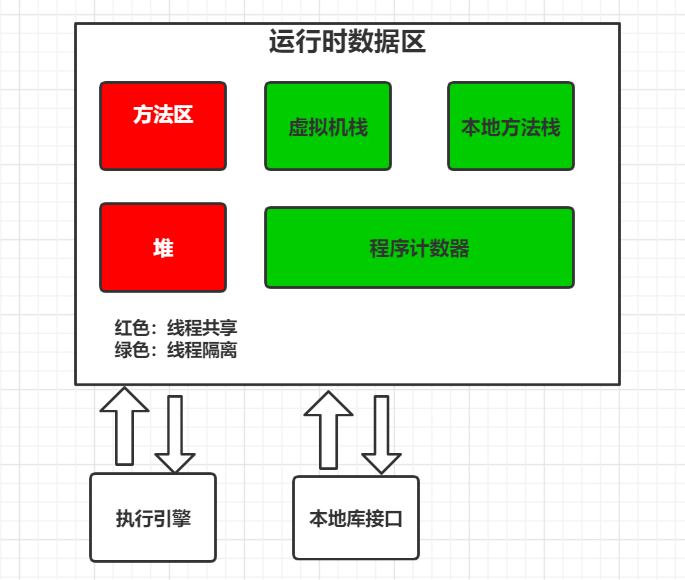
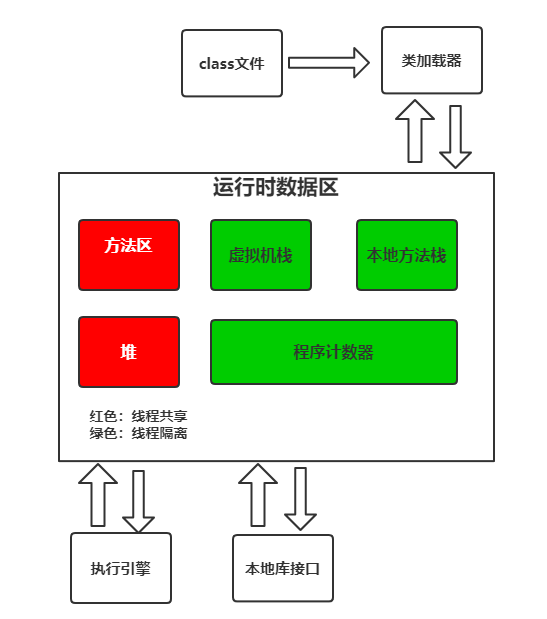
add

Changed region(s): [[0.0932, 0.031, 0.9324, 0.9931]]

diff --git a/docs/java/JVM/JVM之垃圾回收.md b/docs/java/JVM/JVM之垃圾回收.md
@@ -1,21 +1,58 @@
-# JVM之垃圾回收算法
+# JVM之垃圾回收
 
-#### 标记-清除算法
+## 一、对象的生与死
+
+#### 1、引用计数算法
+给对象添加一个引用计数器，每当有一个地方引用它时，计数器加1，引用失效减1。主要问题很难解决循环引用的问题。
+
+#### 2、跟搜索算法
+通过一些GCRoots对象来作为节点，搜索所有走过的路径称为引用链，当一个对象到GCRoots没有任何引用链（在图论中即为从GCRoots到这个对象不可达），则对象时不可用的。可作为GCRoots的对象：
+* 虚拟机栈中的栈帧中的本地变量表中的引用对象
+* 方法区中的静态属性引用的对象
+* 方法区中的常量引用对象
+* 本地方法栈中的native方法的引用的对象
+
+
+## 二、对象访问
+
+#### 1、直接引用(强应用)
+```
+Object obj=new Object();
+```
+* object obj 在栈的本地变量中是作为一个reference类型数据出现。reference类型在虚拟机中的主流做法，是使用句柄和直接指针。
+* new Object()在堆上开辟一块内存，存储object类型所有的实例数据值。
+* 只要强引用还存在，垃圾回收永远不会回收被引用的对象内存
+
+### 2、软引用（soft reference）
+* 描述的一些还有用，但是非必须的对象。在系统将要发生内存溢出 异常之前，将会把这些对象列为回收范围之中并进行第二次回收。
+
+### 3、弱引用（weak reference）
+* 也是来描述非必须的对象，但是它的强度比软引用更弱一些，当垃圾回收器工作时，无论当前内存是否足够，都会回收只被弱引用关联的对象
+* java中的ThreadLocal和WeakhashMap得到了应用
+### 4、 虚引用（phantom reference）
+* 最弱的一种引用关系，不能通过它访问对象。幻象引用仅仅是提供了一种确保对象被 finalize 以后，做某些事情的机制，比如，通常用来做所谓的 Post-Mortem 清理机制
+
+
+
+## 三、垃圾回收算法
+
+### 1、标记-清除算法
 标记-清除算法分为两个阶段：标记阶段和清除阶段。标记阶段的任务是标记出所有需要被回收的对象，清除阶段就是回收被标记的对象所占用的空间。
 * 缺点：但是有一个比较严重的问题就是容易产生内存碎片，碎片太多可能会导致后续过程中需要为大对象分配空间时无法找到足够的空间而提前触发新的一次垃圾收集动作。
 
-#### 复制算法
+#### 2、复制算法
 它将可用内存按容量划分为大小相等的两块，每次只使用其中的一块。当这一块的内存用完了，就将还存活着的对象复制到另外一块上面，然后再把已使用的内存空间一次清理掉，这样一来就不容易出现内存碎片的问题。
 * 对内存空间的使用做出了高昂的代价，因为能够使用的内存缩减到原来的一半。很显然，Copying算法的效率跟存活对象的数目多少有很大的关系，如果存活对象很多，那么Copying算法的效率将会大大降低。
 
-#### 标记-整理算法
+#### 3、标记-整理算法
 该算法标记阶段和标记清除算法一样，但是在完成标记之后，它不是直接清理可回收对象，而是将存活对象都向一端移动，然后清理掉端边界以外的内存。
 
 
-#### 分代收集算法
+#### 4、分代收集算法
 分代收集算法是目前大部分JVM的垃圾收集器采用的算法。它的核心思想是根据对象存活的生命周期将内存划分为若干个不同的区域。一般情况下将堆区划分为老年代（Tenured Generation）和新生代（Young）
 * 新生代：目前大部分垃圾收集器都采取复制算法。
 >因为新生代中每次垃圾回收都要回收大部分对象，也就是说需要复制的操作次数较少，但是实际中并不是按照1：1的比例来划分新生代的空间的，一般来说是将新生代划分为一块较大的Eden空间和两块较小的Survivor空间，每次使用Eden空间和其中的一块Survivor空间，当进行回收时，将Eden和Survivor中还存活的对象复制到另一块Survivor空间中，然后清理掉Eden和刚才使用过的Survivor空间。
 * 老年代：特点是每次回收都只回收少量对象，一般使用的是标记-整理算法
+
 
 

diff --git a/docs/java/JVM/JVM之内存模型.md b/docs/java/JVM/JVM之内存模型.md
@@ -1,60 +1,13 @@
 # JVM之内存模型
 
-## 一、运行时数据区
-java虚拟机在执行java程序的过程中，会把它管理的内存划分为若干个不同的数据区，这些区都有各自的用途。
-![](../../../pic/java/jvm_1.png)
+ 
+## 1、指令重排
 
+## 2、内存屏障
 
-#### 程序计数器
-当前线程所执行的字节码的行号指示器。由于Java虚拟机的多线程是通过线程的轮流切换并分配处理器执行时间来实现的，一个处理器在一个时刻只会执行一条线程指令，因此为了线程切换后你能恢复到正确的执行位置，每个线程需要独立的程序计数器。
+## 3、happens before
 
-#### 栈
-Java方法执行的内存模型，每个方法被执行的时候都会创建一个栈帧用于存储局部变量，操作栈，动态链接，方法入口等信息，每个方法被调用直至被执行完成的过程，就对应一个栈帧的入栈和出栈的过程。
-* 栈溢出异常(StackOverflowError):如果线程请求的栈深度大于栈所允许的深度，将抛出栈溢出异常。
-* 内存溢出(OutOfMemeryError)：当扩展是无法申请到足够多的内存时会抛出异常
-
-#### 本地方法栈
-给本地方法调用使用的栈内存
-
-#### 堆
-所有的对象实例及数组都要在堆上分配内存
-* 内存溢出（OutOfMemeryError）：堆中没有内存可以完成实例分配，并且堆也无法在扩展，将会抛出outOfMemoryerror
-
-
-#### 方法区
-
-存储已被虚拟机加载的类信息，常量，静态变量，即时编译器编译后的代码等数据
-* 运行时常量池：方法区的一部分
-
-## 二、对象的生与死
-
-#### 引用计数算法
-给对象添加一个引用计数器，每当有一个地方引用它时，计数器加1，引用失效减1。主要问题很难解决循环引用的问题。
-
-#### 跟搜索算法
-通过一些GCRoots对象来作为节点，搜索所有走过的路径称为引用链，当一个对象到GCRoots没有任何引用链（在图论中即为从GCRoots到这个对象不可达），则对象时不可用的。可作为GCRoots的对象：
-* 虚拟机栈中的栈帧中的本地变量表中的引用对象
-* 方法区中的静态属性引用的对象
-* 方法区中的常量引用对象
-* 本地方法栈中的native方法的引用的对象
-
-## 三、对象访问
-
-#### 直接引用(强应用)
-```
-Object obj=new Object();
-```
-* object obj 在栈的本地变量中是作为一个reference类型数据出现。reference类型在虚拟机中的主流做法，是使用句柄和直接指针。
-* new Object()在堆上开辟一块内存，存储object类型所有的实例数据值。
-* 只要强引用还存在，垃圾回收永远不会回收被引用的对象内存
-
-### 软引用（soft reference）
-* 描述的一些还有用，但是非必须的对象。在系统将要发生内存溢出 异常之前，将会把这些对象列为回收范围之中并进行第二次回收。
-
-### 弱引用（weak reference）
-* 也是来描述非必须的对象，但是它的强度比软引用更弱一些，当垃圾回收器工作时，无论当前内存是否足够，都会回收只被弱引用关联的对象
-* java中的ThreadLocal和WeakhashMap得到了应用
-### 虚引用（phantom reference）
-* 最弱的一种引用关系，不能通过它访问对象。幻象引用仅仅是提供了一种确保对象被 finalize 以后，做某些事情的机制，比如，通常用来做所谓的 Post-Mortem 清理机制
+## 4、volatile
+ 
  
  

diff --git a/docs/java/JVM/JVM之内存结构.md b/docs/java/JVM/JVM之内存结构.md
@@ -1,0 +1,29 @@
+# JVM之内存模型
+
+## 一、运行时数据区
+java虚拟机在执行java程序的过程中，会把它管理的内存划分为若干个不同的数据区，这些区都有各自的用途。
+![](../../../pic/java/jvm_1.png)
+
+### 1. 线程隔离(每个线程会有一个私有的栈)
+
+1. 虚拟机栈
+    >Java方法执行的内存模型，每个方法被执行的时候都会创建一个栈帧用于存储局部变量，操作栈，动态链接，方法入口等信息，每个方法被调用直至被执行完成的过程，就对应一个栈帧的入栈和出栈的过程。
+    * 栈溢出异常(StackOverflowError):如果线程请求的栈深度大于栈所允许的深度，将抛出栈溢出异常。
+    * 内存溢出(OutOfMemeryError)：当扩展是无法申请到足够多的内存时会抛出异常
+2. 本地方法栈
+    >给本地方法调用使用的栈内存
+3. 程序计数器
+    >当前线程所执行的字节码的行号指示器。由于Java虚拟机的多线程是通过线程的轮流切换并分配处理器执行时间来实现的，一个处理器在一个时刻只会执行一条线程指令，因此为了线程切换后你能恢复到正确的执行位置，每个线程需要独立的程序计数器。
+
+
+### 2. 线程共享
+1. 堆
+    >所有的对象实例及数组都要在堆上分配内存
+    * 内存溢出（OutOfMemeryError）：堆中没有内存可以完成实例分配，并且堆也无法在扩展，将会抛出outOfMemoryerror
+2. 方法区
+    >存储已被虚拟机加载的类信息，常量，静态变量，即时编译器编译后的代码等数据
+    * 运行时常量池：方法区的一部分
+
+ 
+ 
+ 

diff --git a/docs/java/基础/反射.md b/docs/java/基础/反射.md
@@ -1,9 +1,10 @@
 # 反射
 
 1. [什么是反射](#1)
-2. [反射相关API](#2)
-3. [代码示例](#3)
-4. [应用场景及优缺点](#4)
+2. [Class类-反射的基础]](#2)
+3. [反射相关API](#3)
+4. [代码示例](#4)
+5. [应用场景及优缺点](#5)
 
 
 
@@ -12,7 +13,14 @@
 
 JAVA 反射机制是在运行状态中，对于任意一个类，都能够知道这个类的所有属性和方法；对于任意一个对象，都能够调用它的任意一个方法和属性；这种动态获取的信息以及动态调用对象的方法的功能称为 java 语言的反射机制。
 
-## 二、<span id="2">反射相关API</span>
+
+## 二、<span id="2">Class类-反射的基础</span>
+
+
+
+
+
+## 三、<span id="3">反射相关API</span>
 
 ### 1. 获取Class对象
 
@@ -103,7 +111,7 @@ try {
 Object result = studentShowMethod.invoke(student, "message");
 ```
  
-## 三、<span id="3">代码实例</span>
+## 四、<span id="3">代码实例</span>
 
 **简单用代码演示一下反射的一些操作!**
 
@@ -232,7 +240,7 @@ public class Student {
 
     }
 ```
-## 四、<span id="4">应用场景及优缺点</span>
+## 五、<span id="4">应用场景及优缺点</span>
 
 #### 1.静态编译和动态编译
 

diff --git a/README.md b/README.md
@@ -4,6 +4,7 @@
     * [基础](./docs/java/基础/基础.md) 
     * [序列化](./docs/java/基础/序列化.md) 
     * [反射](./docs/java/基础/反射.md) 
+    * [动态代理](./docs/java/基础/动态代理.md) 
     * 并发
         * [基础篇](/docs/java/并发/基础篇.md)
         * [原理篇之JMM](/docs/java/并发/原理篇之JMM.md)
@@ -24,10 +25,10 @@
     * I/O
     * JVM
 
+        * [JVM之内存结构](/docs/java/JVM/JVM之内存结构.md)
+        * [JVM之类加载](/docs/java/JVM/JVM之类加载.md)
+        * [JVM之垃圾回收](/docs/java/JVM/JVM之垃圾回收.md)
         * [JVM之内存模型](/docs/java/JVM/JVM之内存模型.md)
-        * [JVM之类加载机制]TODO
-        * [JVM之垃圾回收](/docs/java/JVM/JVM之垃圾回收算法.md)
-        * [JMM内存模型]TODO
 
     * java8
 

diff --git a/_sidebar.md b/_sidebar.md
@@ -24,10 +24,10 @@
     * I/O
     * JVM
 
+        * [JVM之内存结构](/docs/java/JVM/JVM之内存结构.md)
+        * [JVM之类加载](/docs/java/JVM/JVM之类加载.md)
+        * [JVM之垃圾回收](/docs/java/JVM/JVM之垃圾回收.md)
         * [JVM之内存模型](/docs/java/JVM/JVM之内存模型.md)
-        * [JVM之类加载机制]TODO
-        * [JVM之垃圾回收](/docs/java/JVM/JVM之垃圾回收算法.md)
-        * [JMM内存模型]TODO
 
     * java8
 

diff --git a/docs/系统设计/分布式事务.md b/docs/系统设计/分布式事务.md
@@ -11,4 +11,4 @@
 
 ### 四、中间件seata
 
-### 五、 本地消息表
+### 五、本地消息表

diff --git a/docs/系统设计/熔断和降级.md b/docs/系统设计/熔断和降级.md
@@ -1,2 +1,2 @@
-# 重试
+# 熔断和降级
 
